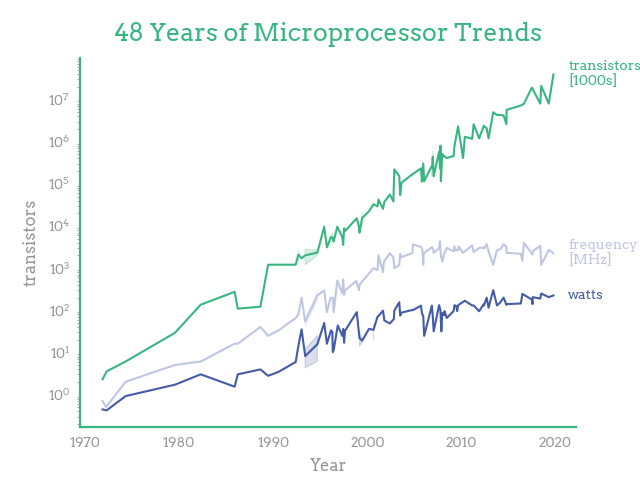
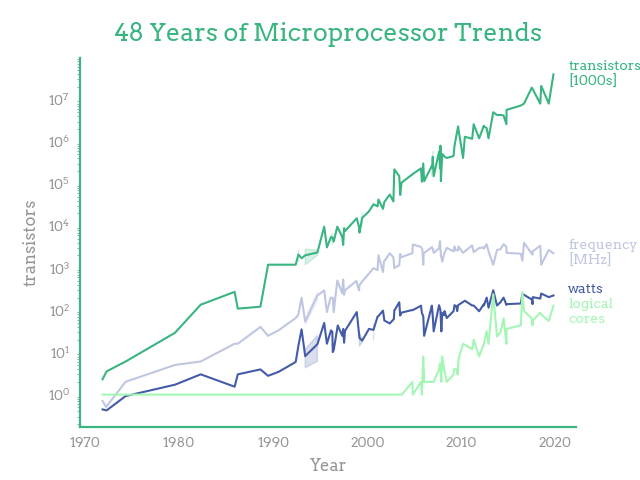
solved multi line legends in lineplot

Changed region(s): [[0.1562, 0.75, 0.7188, 0.8438], [0.75, 0.5938, 0.9688, 0.7188], [0.7188, 0.7188, 0.75, 0.75]]

diff --git a/tests/test_plots.py b/tests/test_plots.py
@@ -42,41 +42,57 @@ def test_scatterplot():
         plt.savefig(f"{OUTPUT_DIR}/scatterplot.png")
         plt.close()
 
-def test_lineplot():
-    df_flights = sns.load_dataset("flights")
-    with plt.style.context(rootsstyle.style):
-        sns.lineplot(x='month', y='passengers', data=df_flights, hue='year', palette=rootsstyle.palettes['dataroots-green'][:12])
-        rootsstyle.legend()
-        rootsstyle.ylabel('passengers')
-        plt.xlabel('month')
-        plt.title("Flights")
-        plt.savefig(f"{OUTPUT_DIR}/lineplot_green.png")
-        plt.close()
-
-
-        sns.lineplot(x='month', y='passengers', data=df_flights, hue='year', palette=rootsstyle.palettes['dataroots-blue'][:12])
-        rootsstyle.legend()
-        rootsstyle.ylabel('passengers')
-        plt.xlabel('month')
-        plt.title("Flights")
-        plt.savefig(f"{OUTPUT_DIR}/lineplot_blue.png")
-        plt.close()
+def test_lineplot():    
+    # REGULAR LINEPLOT
+    # df_cars = sns.load_dataset("mpg")
+    # df_usa = df_cars[df_cars['origin']=='usa'].groupby('model_year').mean().reset_index()
+    # df_japan = df_cars[df_cars['origin']=='japan'].groupby('model_year').mean().reset_index()
+    # df_europe = df_cars[df_cars['origin']=='europe'].groupby('model_year').mean().reset_index()
+    # with plt.style.context(rootsstyle.style):
+    #     sns.lineplot(x='model_year', y='mpg', data=df_usa, label='USA')
+    #     sns.lineplot(x='model_year', y='mpg', data=df_japan, label='Japan')
+    #     sns.lineplot(x='model_year', y='mpg', data=df_europe, label='Europe')
+    #     rootsstyle.legend()
+    #     rootsstyle.ylabel('mpg')
+    #     plt.xlabel('model year')
+    #     plt.title("Cars")
+    #     plt.savefig(f"{OUTPUT_DIR}/lineplot_cars.png")
+    #     plt.close()
     
-    df_cars = sns.load_dataset("mpg")
-    df_usa = df_cars[df_cars['origin']=='usa'].groupby('model_year').mean().reset_index()
-    df_japan = df_cars[df_cars['origin']=='japan'].groupby('model_year').mean().reset_index()
-    df_europe = df_cars[df_cars['origin']=='europe'].groupby('model_year').mean().reset_index()
-    with plt.style.context(rootsstyle.style):
-        sns.lineplot(x='model_year', y='mpg', data=df_usa, label='USA')
-        sns.lineplot(x='model_year', y='mpg', data=df_japan, label='Japan')
-        sns.lineplot(x='model_year', y='mpg', data=df_europe, label='Europe')
-        rootsstyle.legend()
-        rootsstyle.ylabel('mpg')
-        plt.xlabel('model year')
-        plt.title("Cars")
-        plt.savefig(f"{OUTPUT_DIR}/lineplot_cars.png")
-        plt.close()
+    # # LINEPLOT WITH HUE PALETTE
+    # df_flights = sns.load_dataset("flights")
+    # with plt.style.context(rootsstyle.style):
+    #     sns.lineplot(x='month', y='passengers', data=df_flights, hue='year', palette=rootsstyle.palettes['dataroots-green'][:12])
+    #     rootsstyle.legend()
+    #     rootsstyle.ylabel('passengers')
+    #     plt.xlabel('month')
+    #     plt.title("Flights")
+    #     plt.savefig(f"{OUTPUT_DIR}/lineplot_green.png")
+    #     plt.close()
 
+
+    #     sns.lineplot(x='month', y='passengers', data=df_flights, hue='year', palette=rootsstyle.palettes['dataroots-blue'][:12])
+    #     rootsstyle.legend()
+    #     rootsstyle.ylabel('passengers')
+    #     plt.xlabel('month')
+    #     plt.title("Flights")
+    #     plt.savefig(f"{OUTPUT_DIR}/lineplot_blue.png")
+    #     plt.close()
+
+    # LOGARITMIC LINEPLOT
+    # https://github.com/karlrupp/microprocessor-trend-data
+    df_cpus = pd.read_csv("tests/cpus.csv")
+    with plt.style.context(rootsstyle.style):
+        g = sns.lineplot(x='year', y='transistors', data=df_cpus, label='transistors\n[1000s]')
+        g = sns.lineplot(x='year', y='watts', data=df_cpus, label='watts')
+        g = sns.lineplot(x='year', y='frequency', data=df_cpus, label='frequency\n[MHz]')
+        g = sns.lineplot(x='year', y='cores', data=df_cpus, label='logical\ncores')
+        g.set_yscale('log')
+        rootsstyle.legend()
+        plt.xlabel('Year')
+        plt.title("48 Years of Microprocessor Trends")
+        plt.savefig(f"{OUTPUT_DIR}/lineplot_cpus.png")
+        plt.close()
 
 def test_barplot():    
     df_cars = sns.load_dataset("mpg")

diff --git a/rootsstyle/utils.py b/rootsstyle/utils.py
@@ -58,16 +58,15 @@ def get_handle_color(handle):
         return handle.get_facecolor()
 
 
-def get_linelegend_ypositions(ax, handles):
+def get_linelegend_ypositions(ax, handles, labels=None):
     """Calculates the positions of the legendentries.
     Ensures that there is no vertical overlap between entires.
-
     src: https://github.com/nschloe/dufte/blob/fa94fcc7277993942a1cbb909301105cd154644a/src/dufte/main.py#L96
 
     Args:
         ax (mpl.axes.Axes): Axes object of the graph
         handles (list[mpl.lines.Line2D]): list of handles representing the datalines we are making a legend for.
-
+        labels (list[str], optional): list of labels to use. Defaults to None.
     Returns:
         list[(float, float)]: a list of (x,y) coordinates for the legend entries 
     """
@@ -78,7 +77,8 @@ def get_linelegend_ypositions(ax, handles):
         yaxis_range = math.log10(ax.get_ylim()[1]) - math.log10(ax.get_ylim()[0])
     else:
         yaxis_range = ax.get_ylim()[1] - ax.get_ylim()[0]
-    min_distance = fontsize_inches / yaxis_height_inches * yaxis_range
+    spacing_between_lines = 1.1
+    line_height = fontsize_inches / yaxis_height_inches * yaxis_range * spacing_between_lines
 
     # Find position heights and adjust so that there is no overlap
     last_y = [h.get_ydata()[~np.isnan(h.get_ydata())][-1] for h in handles]
@@ -86,19 +86,23 @@ def get_linelegend_ypositions(ax, handles):
         last_y = [math.log10(y) for y in last_y]
     idx = np.argsort(last_y)
     targets = np.sort(last_y)
+    labels = np.array(labels)[idx]
     n = len(targets)
-
-    y0_min = targets[0] - n * min_distance
+    lines_away_from_first_label = np.arange(n, dtype=float)
+    for i in range(1, len(labels)):
+        distance_to_prev_label = (2+f"{labels[i-1]}_{labels[i]}".count('\n'))/2
+        lines_away_from_first_label[i] = lines_away_from_first_label[i-1]+distance_to_prev_label
+    
+    y0_min = targets[0] - lines_away_from_first_label[-1] * line_height
     A = np.tril(np.ones([n, n]))
-    b = targets - (y0_min + np.arange(n) * min_distance)
+    b = targets - (y0_min + lines_away_from_first_label * line_height)
 
     out, _ = scipy.optimize.nnls(A, b)
-    sol = np.cumsum(out) + y0_min + np.arange(n) * min_distance
+    sol = np.cumsum(out) + y0_min + lines_away_from_first_label * line_height
     idx2 = np.argsort(idx)
     last_y = sol[idx2]
     if ax.get_yscale() == "log":
         last_y = [10 ** y for y in last_y]
-    
 
     # Add x-coordinates to get position next to last datapoint
     last_x = [h.get_xdata()[~np.isnan(h.get_xdata())][-1] for h in handles]

diff --git a/rootsstyle/main.py b/rootsstyle/main.py
@@ -20,7 +20,7 @@ style = {
     ## * FONT                                                                    *
     ## ***************************************************************************
     "font.family": "Arvo",
-    "font.size": 10, #used for line legend
+    "font.size": 10,  # used for line legend
     ## ***************************************************************************
     ## * TICKS                                                                   *
     ## ***************************************************************************
@@ -93,14 +93,14 @@ def _legend_line(ax, labels=None):
     if labels is None:
         labels = [h.get_label() for h in handles]
 
-    targets = get_linelegend_ypositions(ax, handles)
+    targets = get_linelegend_ypositions(ax, handles, labels)
 
     for label, (x, y), color in zip(labels, targets, colors):
         plt.text(x, y, label, verticalalignment="center", color=color)
     return {"labels": labels, "handles": handles}
 
 
-def legend(handles=None, labels=None, title = None):
+def legend(handles=None, labels=None, title=None):
     """Displays the legend to the left of the plot.
     For lineplots, displays each line legend next to the line.
 

diff --git a/rootsstyle/colors.py b/rootsstyle/colors.py
@@ -47,5 +47,5 @@ palettes = {
         "#222E54",
         "#1B2443",
         "#141B32",
-    ]
+    ],
 }
